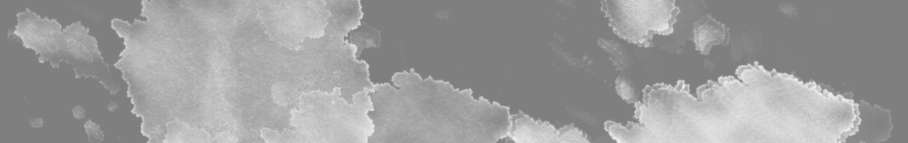
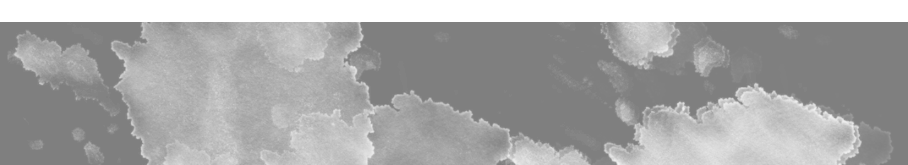
complete home page! :D

diff --git a/seeking/style.less b/seeking/style.less
@@ -1,4 +1,4 @@
-
+/*
 div, section {
 	outline: 1px dotted red;
 }
@@ -11,7 +11,7 @@ body.left, body.right {
 body > .container, header, footer {
 	outline: 3px dashed magenta;
 }
-
+*/
 body { > section {
 		min-height: 595px;
 		margin-top: 15px;
@@ -66,6 +66,17 @@ body { > section {
 		/*background: url(images/index.jpg) no-repeat center;*/
 		height: 1460px;
 		width: 950px;
+	}
+}
+
+div.header_bg{
+	min-height: 141px;
+	background:url(images/header_bg.png) top center;
+	margin: 0px auto;
+		div.dirt{
+		min-height: 133px;
+		background: url(images/dirt.png) no-repeat top center;
+		z-index: -99;
 	}
 }
 header { > .right {
@@ -127,6 +138,7 @@ header { > .right {
 			}
 		}
 	} > .left {
+		margin-top:20px; 
 		height: inherit;
 		background: url(images/logo.png) no-repeat center center;
 	}
@@ -375,3 +387,4 @@ footer { > .top {
 		}
 	}
 }
+

diff --git a/seeking/home.php b/seeking/home.php
@@ -12,33 +12,38 @@
 <script type="text/javascript" src="scripts/script.js" ></script>
 </head>
 <body>
-<header class="container mt11">
-	<div class="w10 right">
-		<div class="w10 top">
-			<div class="left w9">
-				<nav>
-					<ul>
-						<li><a href="#">Chat</a></li>
-						<li><a href="#">Call</a></li>
-					</ul>
-				</nav>
+
+<div class="header_bg">
+	<div class="dirt container mla mra">
+		<header class="container">
+			<div class="mt9 w10 right">
+				<div class="w10 top">
+					<div class="left w9">
+						<nav>
+							<ul>
+								<li><a href="#">Chat</a></li>
+								<li><a href="#">Call</a></li>
+							</ul>
+						</nav>
+					</div>
+					<div class="right ml9"></div>
+				</div>
+				<div class="w10 mt2 down">
+					<nav>
+						<ul>
+							<li><a href="pages/index.php">home</a></li>
+							<li><a href="pages/about.php">process</a></li>
+							<li><a href="pages/gallery.php">gallery</a></li>
+							<li><a href="pages/color.php">color</a></li>
+							<li class="right active"><a href="pages/contact.php">contact</a></li>
+						</ul>
+					</nav>
+				</div>
 			</div>
-			<div class="right ml9"></div>
-		</div>
-		<div class="w10 mt2 down">
-			<nav>
-				<ul>
-					<li><a href="pages/index.php">home</a></li>
-					<li><a href="pages/about.php">process</a></li>
-					<li><a href="pages/gallery.php">gallery</a></li>
-					<li><a href="pages/color.php">color</a></li>
-					<li class="right active"><a href="pages/contact.php">contact</a></li>
-				</ul>
-			</nav>
-		</div>
-	</div>
-	<div class="w4 ml3 left"></div>
-</header>
+			<div class="w4 ml3 left"></div>
+		</header>
+	</div> 
+</div><!-- End header -->
 <section class="container mla mra mt9">
 	<section class="slider top">
 		<section class=" w22 mla mra">
